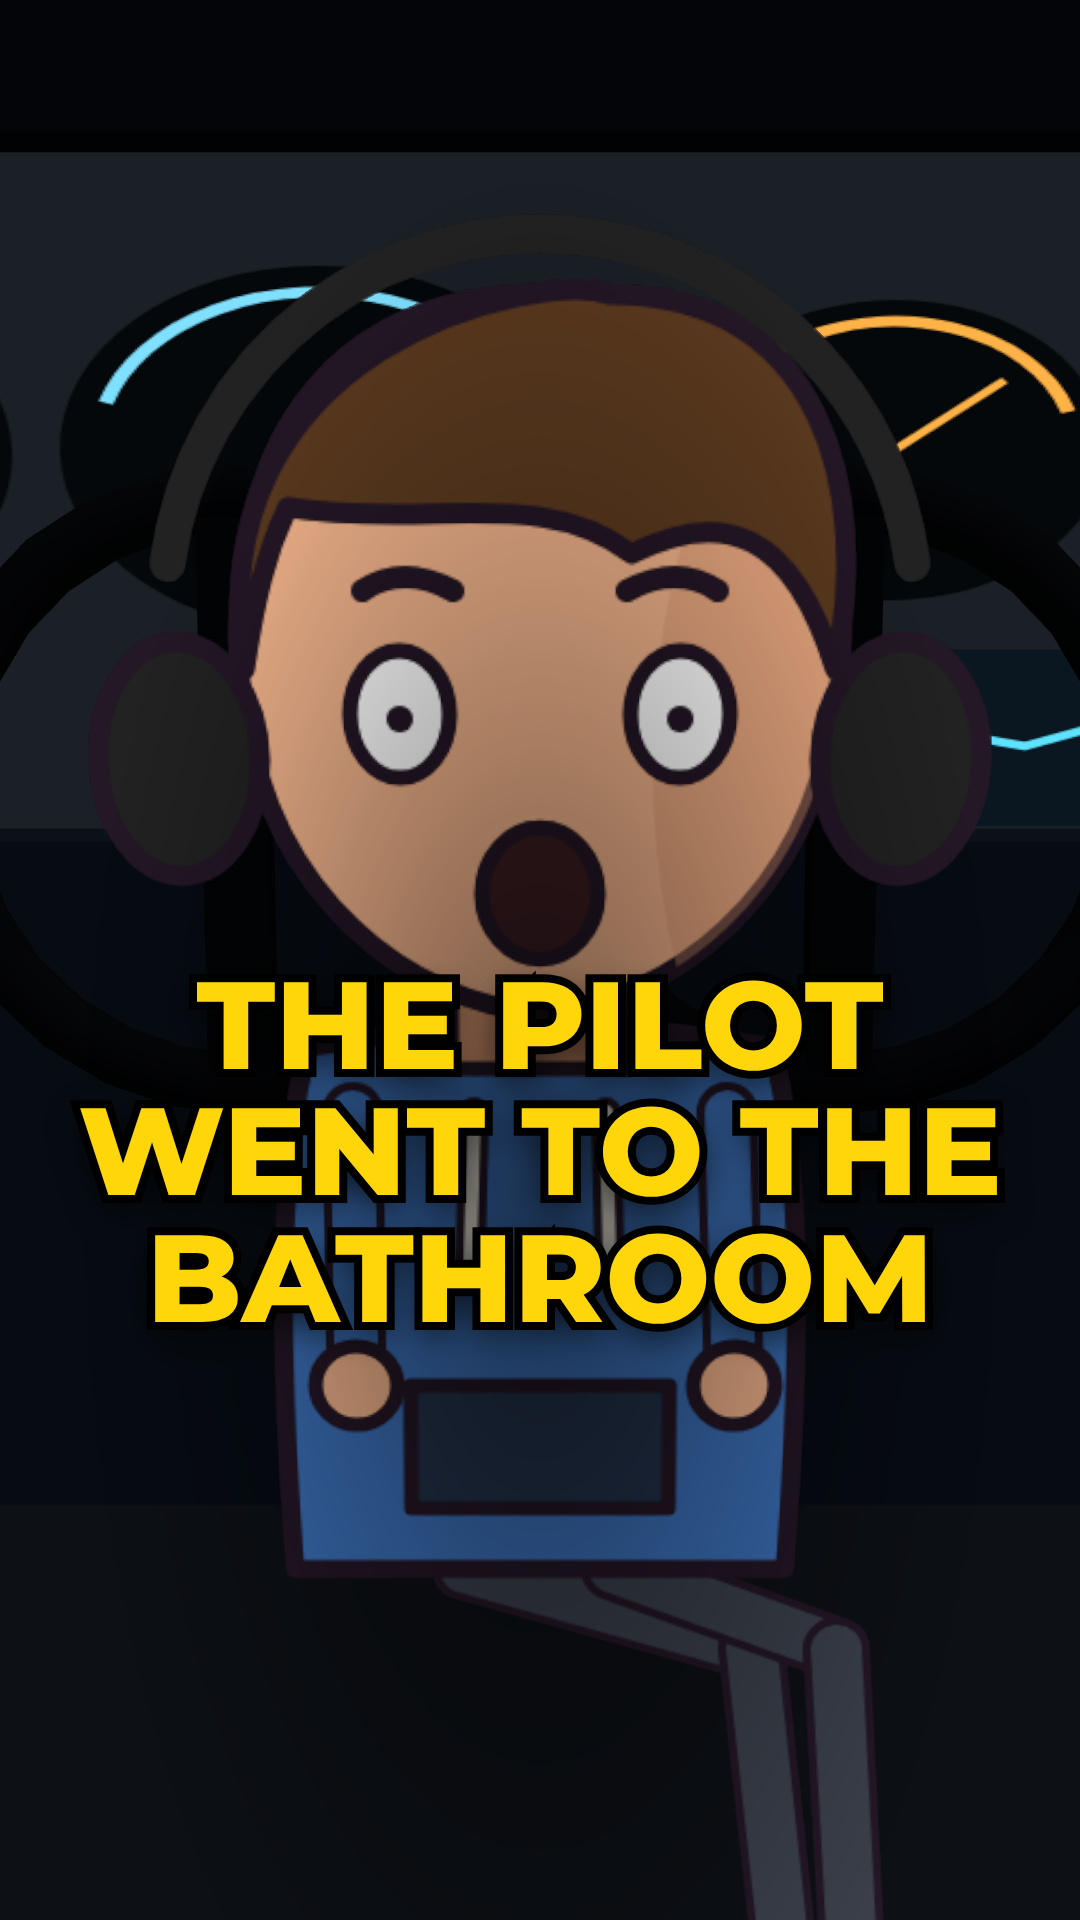
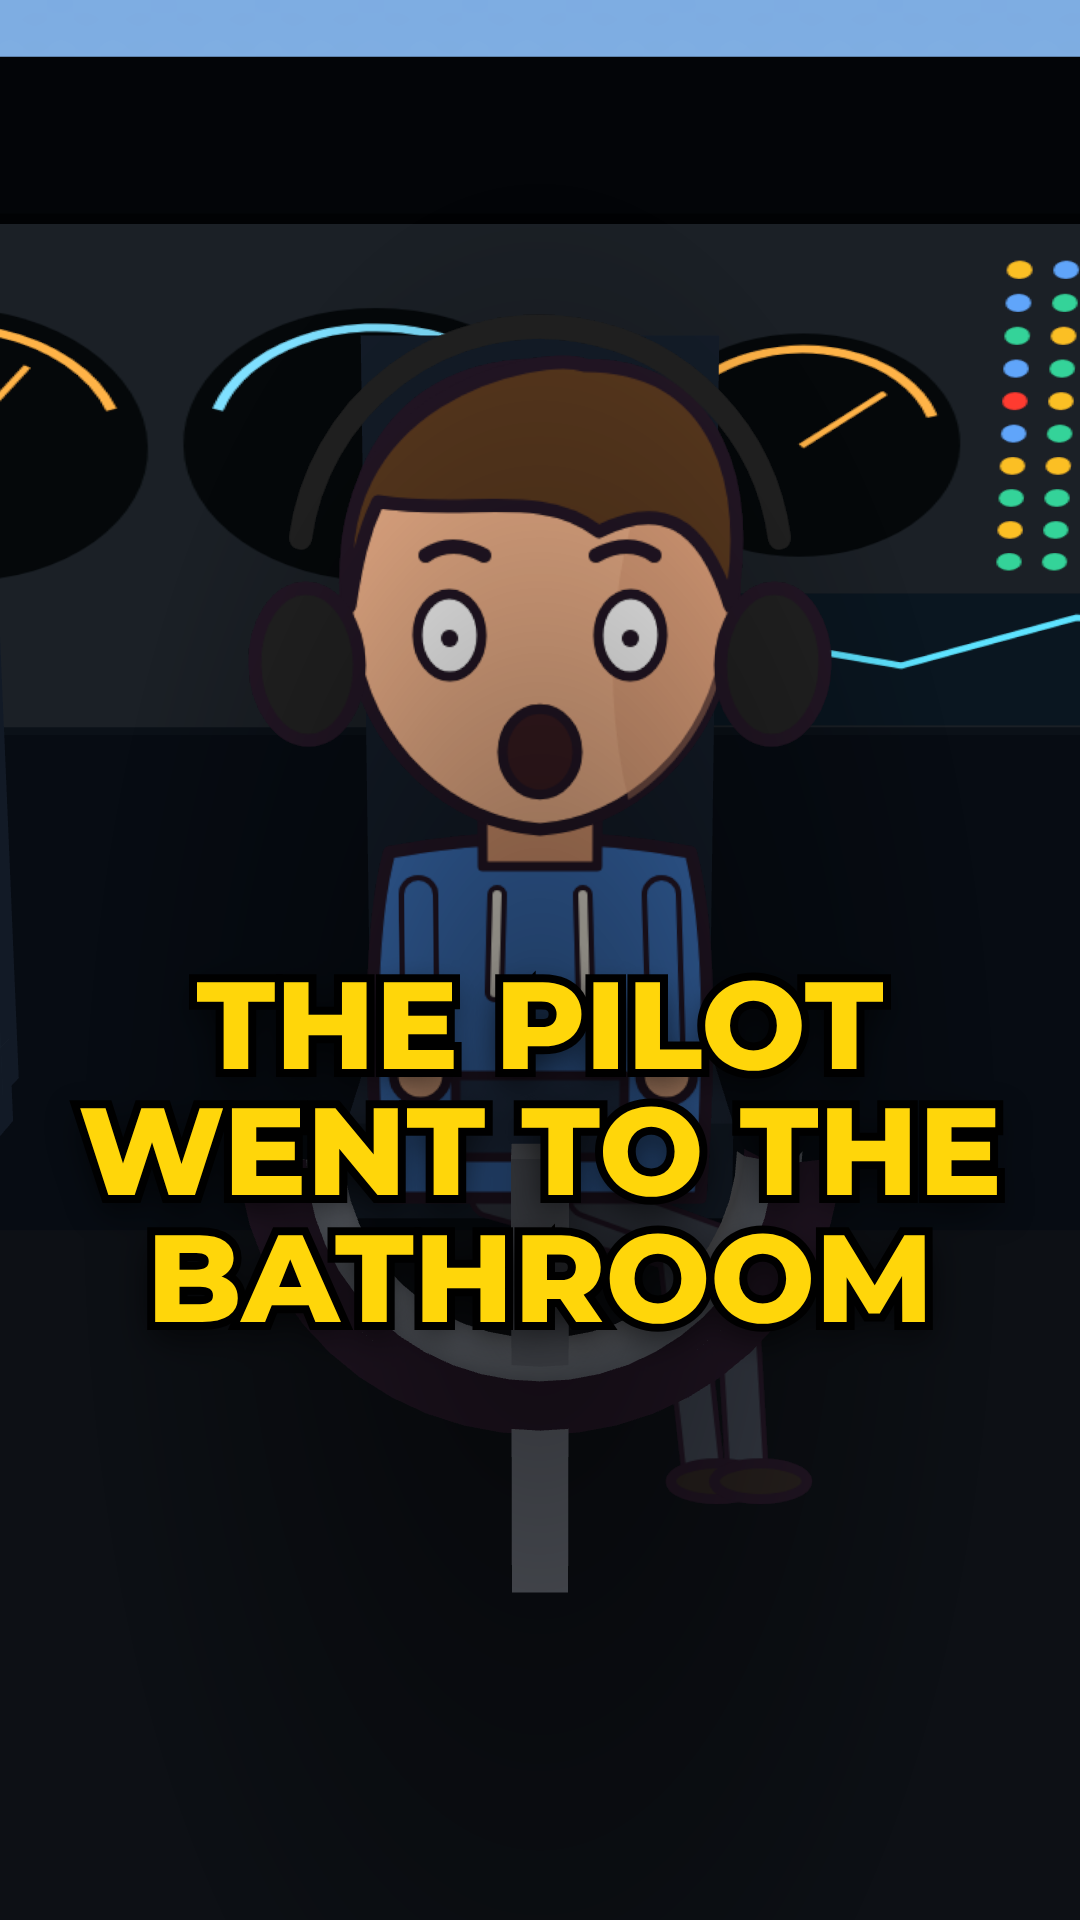
PilotShort: final notes, cover at the current hook, QA report
Claude-Session: https://claude.ai/code/session_014M2tnAGUwfy7E82M6YHBcu

diff --git a/pilot-short/SCRIPT.md b/pilot-short/SCRIPT.md
@@ -52,3 +52,14 @@ Flight 312, SKYPAL, Kevin, Captain Rick, Co-pilot Dave, Gloria, Grandma Edna, To
 ## Voice
 - Mike - Animation, Explainers & Gaming (ElevenLabs shared voice cBTYF7NiJbR8Bvmdeuse) could NOT be used: the API key lacks voices_write (add to account fails with 401) and free-plan API use of library voices returns 402 paid_plan_required.
 - Fallback used until that is fixed: Will (premade, American, relaxed), eleven_v3, stability 0.35, similarity 0.80, style 0.35.
+
+## Production notes (final)
+- **Video:** `out/pilot_short.mp4`, 1440x2560, 30 fps, 2028 frames, 67.6 s, H.264 (crf 16) and AAC 48 kHz. Render: `node scripts/render-pilot.mjs video` (about 16 minutes on 4 cores with software WebGL).
+- **Cover:** `out/pilot_cover.png`, 1080x1920, the hook frame at 1.0 s with the title below Kevin's face. Render: `node scripts/render-pilot.mjs cover 30`.
+- **Voiceover text:** `out/pilot_voiceover.txt`, 190 words in 3–4 word lines, with the start time of each paragraph. Generator: `python3 scripts/pilot-voiceover-text.py`.
+- **QA:** `python3 scripts/pilot-qa.py out/pilot_short.mp4` writes `out/pilot_qa.txt`. Result: PASS. Format, audio, and no black, white or frozen frames outside the hook flash.
+- **Loudness:** −15.7 LUFS integrated, true peak −4.2 dBFS. The −14 LUFS target is not reached: raising the level would push the peaks past −1 dBFS.
+- **Voice:** Will (premade, eleven_v3). The Mike voice is not available (see Voice above).
+- **Visual checks:** contact sheets every 2 s, reviewed by an Opus max verifier over six rounds, then the frames of the final MP4.
+- **Known limits:** flat unlit shading, no ink outlines on the sets (the characters and the airliner have plum outlines), and no depth of field. The drive-thru has no text sign: the rules forbid labels in the video, and the subtitle already says the words.
+- **Subtitles:** a phrase sampled exactly on its first frame is at 50% opacity by design (a 100 ms fade).
